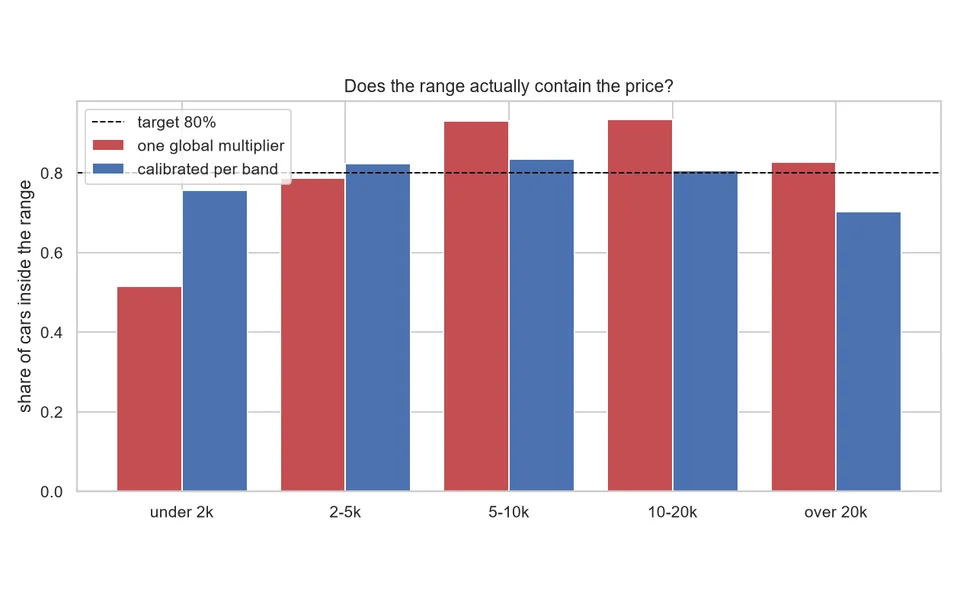
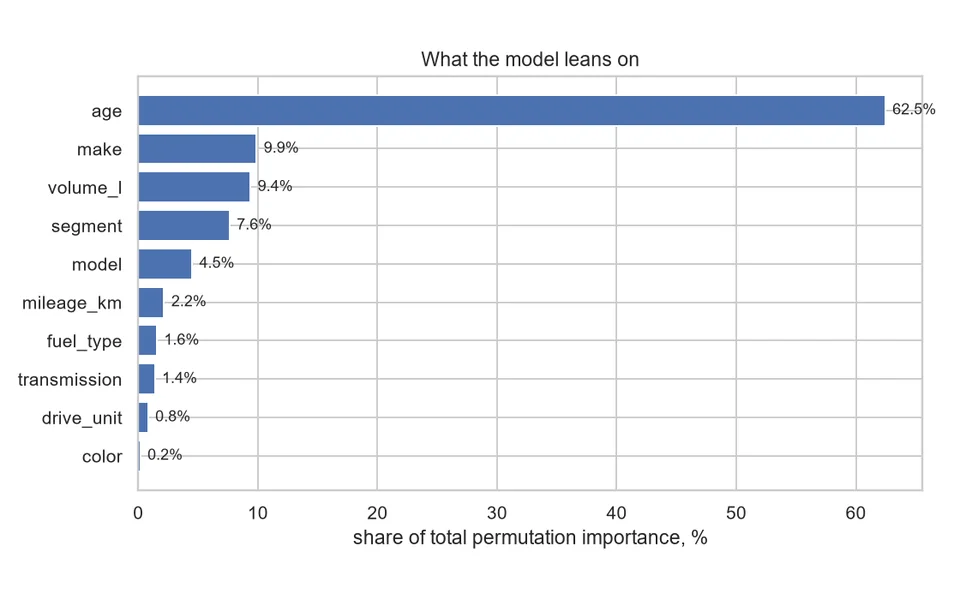
Car Price card: permutation-importance figure instead of interval coverage
Sergey's pick: the chart that backs the card's own claim (age carries 62.5
percent of permutation importance, mileage 2.2). Same repository figure
pipeline; provenance row updated in assets/img/_sources.md.

diff --git a/de/projects.html b/de/projects.html
@@ -321,8 +321,8 @@
               <span class="anno"><span class="pos">Pos. 08</span> · Jul 2026</span>
             </div>
             <figure class="dc-fig">
-              <div class="dc-fig-box"><img src="../assets/img/p-carprice.webp" width="960" height="600" alt="Gruppiertes Balkendiagramm mit dem Titel Does the range actually contain the price: Anteil der Fahrzeuge innerhalb des Intervalls je Preisklasse, ein globaler Multiplikator gegen je Klasse kalibriert, gegen die 80-Prozent-Ziellinie" loading="lazy" decoding="async"></div>
-              <figcaption><b>Abb. 08</b><span>Intervallabdeckung je Preisklasse · Abbildung aus dem Repository</span></figcaption>
+              <div class="dc-fig-box"><img src="../assets/img/p-carprice.webp" width="960" height="600" alt="Horizontales Balkendiagramm mit dem Titel What the model leans on: Anteil an der gesamten Permutations-Importance je Merkmal, Alter 62,5 Prozent, Marke 9,9, Hubraum 9,4, Segment 7,6, Modell 4,5, Laufleistung 2,2, Kraftstoff 1,6, Getriebe 1,4, Antrieb 0,8, Farbe 0,2" loading="lazy" decoding="async"></div>
+              <figcaption><b>Abb. 08</b><span>Permutations-Importance je Merkmal · Abbildung aus dem Repository</span></figcaption>
             </figure>
             <div class="dc-body">
               <h3>Car Price Estimator</h3>

diff --git a/projects.html b/projects.html
@@ -324,8 +324,8 @@
               <span class="anno"><span class="pos">Pos. 08</span> · Jul 2026</span>
             </div>
             <figure class="dc-fig">
-              <div class="dc-fig-box"><img src="assets/img/p-carprice.webp" width="960" height="600" alt="Grouped bar chart titled Does the range actually contain the price: share of cars inside the range per price band, one global multiplier versus calibrated per band, against the 80 percent target line" loading="lazy" decoding="async"></div>
-              <figcaption><b>Fig. 08</b><span>Interval coverage per price band · repository figure</span></figcaption>
+              <div class="dc-fig-box"><img src="assets/img/p-carprice.webp" width="960" height="600" alt="Horizontal bar chart titled What the model leans on: share of total permutation importance per feature, age 62.5 percent, make 9.9, volume 9.4, segment 7.6, model 4.5, mileage 2.2, fuel type 1.6, transmission 1.4, drive unit 0.8, color 0.2" loading="lazy" decoding="async"></div>
+              <figcaption><b>Fig. 08</b><span>Permutation importance per feature · repository figure</span></figcaption>
             </figure>
             <div class="dc-body">
               <h3>Car Price Estimator</h3>

diff --git a/assets/img/_sources.md b/assets/img/_sources.md
@@ -16,7 +16,7 @@ an architecture drawing and not a screenshot, and is labelled as such in its cap
 | `p-traveltide.webp` | card | `https://github.com/sergey-kasatov/traveltide-segmentation-retention` `notebooks/traveltide_segmentation_retention_final.ipynb#10` | 989x490 | none | 960x600 | 14 KB, q85 | notebook output 10 (rule-based segment sizes), extracted from the committed notebook's PNG output |
 | `p-dashboard.webp` | card | CDP capture `tableau_test.png` (2026-09-03) | 2880x2000 | (0, 42, 2016, 1062) | 960x600 | 46 KB, q85 | Tableau Public embed view of the Main Dashboard, CDP capture at 1440 px, 2x; KPI row, product table, map and filters (Tableau tab strip and lower charts cropped) |
 | `p-iatf.webp` | card | `https://github.com/sergey-kasatov/iatf-quality-report-prompt` `images/checker_run.png` | 1115x622 | (0, 0, 720, 450) | 960x600 | 23 KB, q85 | repository screenshot: the marker checker's PowerShell run, 7 of 7 passed (empty right margin cropped) |
-| `p-carprice.webp` | card | `https://github.com/sergey-kasatov/car-price-estimator` `reports/figures/09_interval_coverage.png` | 1260x630 | none | 960x600 | 15 KB, q85 | repository figure: interval coverage per price band, one global multiplier vs calibrated per band |
+| `p-carprice.webp` | card | `https://github.com/sergey-kasatov/car-price-estimator` `reports/figures/07_feature_importance.png` | 1120x630 | none | 960x600 | 17 KB, q85 | repository figure: share of total permutation importance per feature, age 62.5 percent, mileage 2.2 percent (Sergey's pick 2026-09-03; the interval-coverage chart 09 was the first build) |
 | `p-triage.webp` | card | `https://github.com/sergey-kasatov/llm-order-triage-agent` `media/n8n_decision_zone.png` | 780x370 | none | 960x600 | 22 KB, q85 | repository screenshot: decision zone of the n8n workflow (classifier agent, parse, route, three log-and-notify branches); source is 780 px wide, upscaled 1.23x |
 | `p-fx.webp` | card | `https://github.com/sergey-kasatov/fx-random-walk-benchmark` `reports/figures/03_rmse_ratio.png` | 1784x724 | (0, 0, 1184, 724) | 960x600 | 24 KB, q85 | repository figure: RMSE ratio of every model to the random walk, horizons 1 and 5 (horizon 21 panel cropped) |
 | `p-neuron.webp` | card | `https://github.com/sergey-kasatov/neuron-platformer-rl` `assets/saliency_maps.png` | 1281x2184 | (0, 0, 1281, 832) | 960x600 | 14 KB, q85 | repository figure: Grad-CAM saliency maps, first two of five rows (level frame, 84x84 CNN input, attention map) |
